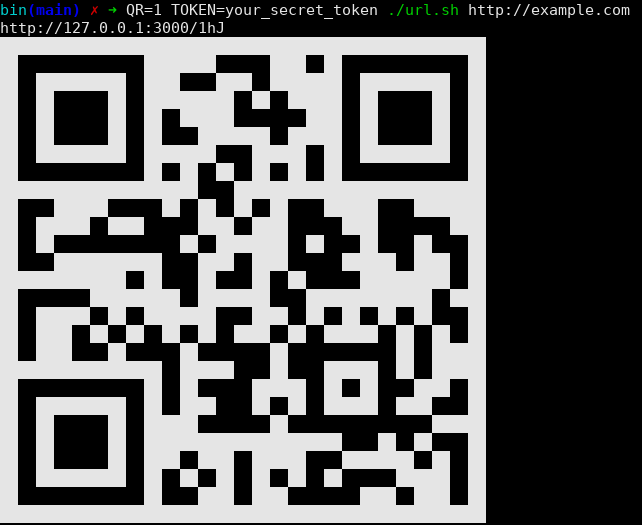
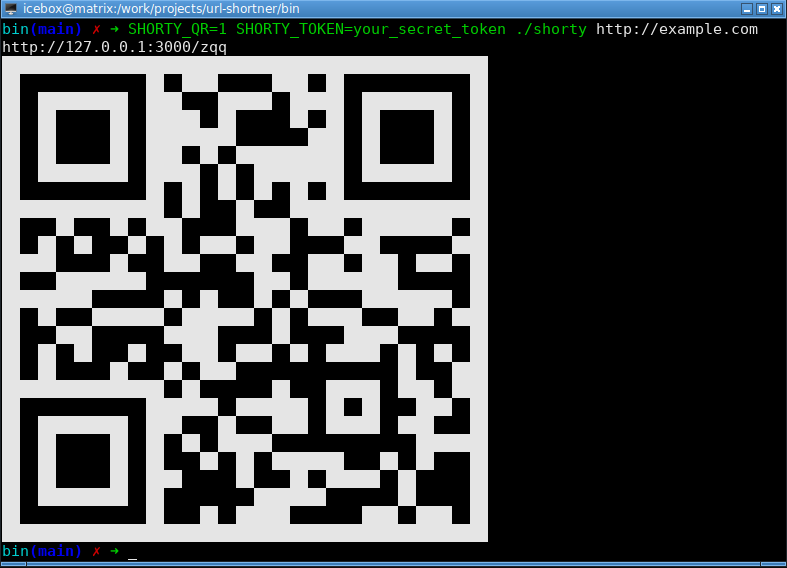
renamed from url-shortner to shorty

diff --git a/bin/www.js b/bin/www.js
@@ -201,14 +201,20 @@ async function setStorage(id, url) {
  * Main function - start the server and connect to redis if needed
  */
 async function main() {
+  await app.listen(PORT);
+  console.log(`[+] Shorty HTTP server running on http://127.0.0.1:${PORT}`);
+
   if (STORAGE === "redis") {
-    await redisClient.connect();
+    try {
+      await redisClient.connect();
+    } catch (err) {
+      console.log("[-] Redis DB connection failed, exiting...");
+      process.exit(1);
+    }
     console.log("[+] Redis DB connected");
   } else {
     console.log("[+] In-memory storage");
   }
-  await app.listen(PORT);
-  console.log(`[+] HTTP server running on http://127.0.0.1:${PORT}`);
 }
 
 main();

diff --git a/README.md b/README.md
@@ -1,4 +1,4 @@
-# URL Shortener Service
+# Shorty
 
 This project is a free and open-source URL shortening service built with Node.js using the Koa framework. It serves as an alternative to services like bit.ly and tinyurl.com. The service allows you to shorten URLs, store them in memory or Redis, retrieve them using short identifiers, and view analytics for each URL. It also includes a Bash CLI for easy interaction with the service.
 
@@ -14,15 +14,16 @@ This project is a free and open-source URL shortening service built with Node.js
 ## Prerequisites
 
 - Node.js (>= 12.x)
-- Redis (optional, if using Redis storage)
 - Bash (for CLI usage)
+- Redis (optional, if using Redis storage)
+- qrcode-terimnal (optional, for QR code generation)
 
 ## Installation
 
 1. Clone the repository:
 ```bash
-git clone https://github.com/yourusername/url-shortener.git
-cd url-shortener
+git clone https://github.com/3dprogramin/shorty
+cd shorty
 ```
 
 2. Install dependencies:
@@ -61,14 +62,16 @@ npm run start
 ##### Basic usage
 
 ```bash
-TOKEN=your_secret_token ./bin/url.sh http://example.com
+cd bin
+export SHORTY_TOKEN=your_secret_token 
+./shorty http://example.com
 http://127.0.0.1:3000/1hJ
 ```
 
 ##### Custom ID (optional)
 
 ```bash
-TOKEN=your_secret_token ./url.sh http://example.com my-custom-id
+./shorty http://example.com my-custom-id
 http://127.0.0.1:3000/my-custom-id
 ```
 
